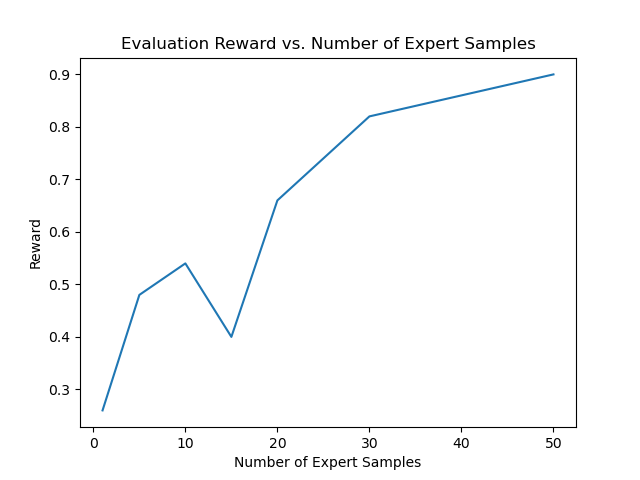
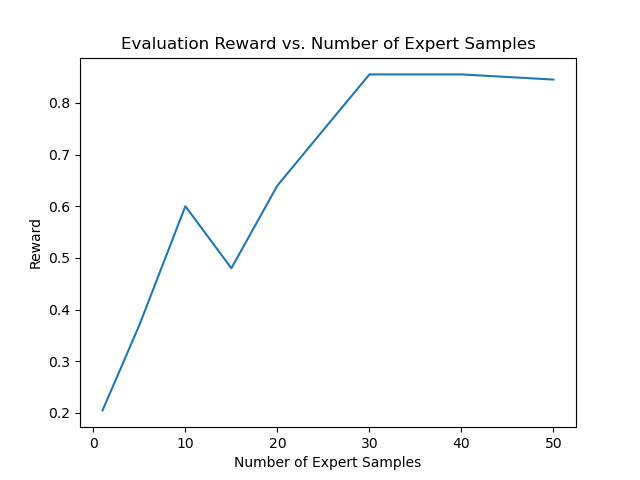
Fixed evaluation and AL

diff --git a/algos/active_bc.py b/algos/active_bc.py
@@ -54,7 +54,7 @@ def active_bc(env=None, budget=100, config=None):
     mazes = []
 
     env.set_goal(random_goal(env))
-    init_maze = env.grid_string.T
+    init_maze = np.copy(env.grid_string.T)
 
     mazes.append(init_maze)
 
@@ -113,7 +113,7 @@ def active_bc(env=None, budget=100, config=None):
             cur_maze = failed_configs[max_heuristic_idx]
         else:
             env.set_goal(random_goal(env))
-            cur_maze = env.grid_string.T
+            cur_maze = np.copy(env.grid_string.T)
 
         cur_traj = generateExpertTrajectory(
             env, r=config["base"]["randomize"], maze=cur_maze
@@ -134,7 +134,7 @@ def active_bc(env=None, budget=100, config=None):
             test_dataset=None,
             env=env,
             config=config,
-            net=net,
+            net=None,
             idx=(idx + 1),
         )
 
@@ -254,127 +254,25 @@ def BehaviorCloning(
             print("Loss is 0, stopping training")
             break
 
-        # Evaluation loop
-        with torch.no_grad():
-            if False:
-                if epoch % eval_freq == 0:
-                    logged_epochs.append(epoch)
-                    if test_dataset is None:
-                        print("No test dataset provided, skipping evaluation")
-                    else:
-                        epoch_test_lossses = []
-                        epoch_test_accs = []
-                        for state, action in test_loader:
-                            output = net(state)
-                            action = action.squeeze()
-                            loss = criterion(output, action)
-
-                            # If output isn't 2D, unsqueeze it
-                            if output.shape == (4,):
-                                output = output.unsqueeze(0)
-                                total = 1
-                            else:
-                                total = action.size(0)
-
-                            _, predicted = torch.max(output.data, 1)
-                            correct = (predicted == action).sum().item()
-                            acc = correct / total
-
-                            epoch_test_lossses.append(loss.item())
-                            epoch_test_accs.append(acc)
-
-                        test_losses.append(np.mean(epoch_test_lossses))
-                        test_accs.append(np.mean(epoch_test_accs))
-
-                    # Evaluate the policy
-                    if eval_freq is not None:
-                        batch_reward = []
-                        obs = env.reset()
-
-                        for i in range(num_eval_runs):
-                            reward_sum = 0
-                            while True:
-                                action = net(torch.tensor(obs).float()).argmax().item()
-                                obs, reward, term, trunc, info = env.step(int(action))
-                                env.render()
-                                reward_sum += reward
-                                if term or trunc:
-                                    break
-
-                            if r == "g":
-                                env.set_goal(random_goal(env))
-                                obs = env.reset()
-                            elif r == "m":
-                                obs = env.reset(
-                                    grid_string=generate_maze(env.board_size)
-                                )
-                            else:
-                                obs = env.reset()
-
-                            batch_reward.append(reward_sum)
-
-                        eval_reward.append(np.mean(batch_reward))
-
-    # Visualization
-    plt.figure()
-
-    # Label the whole figure
-    plt.suptitle(
-        f"{env.grid_string.shape[0]}x{env.grid_string.shape[0]} Grid, {train_dataset.__len__()} Expert Samples"
-    )
-    # Create three subplots for train/test loss, train/test accuracy, and evaluation reward
-    plt.subplot(3, 1, 1)
-    plt.plot(train_losses, "b-", label="Train Loss")
-    if test_dataset is not None:
-        plt.plot(logged_epochs, test_losses, "r-", label="Test Loss")
-    plt.xlabel("Epoch")
-    plt.ylabel("Loss")
-    plt.legend()
-    plt.subplot(3, 1, 2)
-    plt.plot(train_accs, "b-", label="Train Accuracy")
-    if test_dataset is not None:
-        plt.plot(logged_epochs, test_accs, "r-", label="Test Accuracy")
-    plt.xlabel("Epoch")
-    plt.ylabel("Accuracy")
-    plt.legend()
-    plt.subplot(3, 1, 3)
-    plt.plot(logged_epochs, eval_reward, "r-", label="Evaluation Reward")
-    plt.xlabel("Epoch")
-    plt.ylabel("Reward")
-    plt.legend()
-
     save_string = f"bc_{env.grid_string.shape[0]}x{env.grid_string.shape[0]}_r_{r}_samples_{train_dataset.__len__()}_batch_{batch_size}_epochs_{epochs}"
-
-    # Make save_string directory
-    if not os.path.exists(f"logs/bc/{save_string}"):
-        os.makedirs(f"logs/bc/{save_string}")
-
-    plt.savefig(f"logs/bc/{save_string}/" + save_string + f"_{idx}.png")
-
-    # Save the data as a numpy array
-    # np.savez(
-    #     f"logs/bc/{save_string}/" + save_string + f"_{idx}.npz",
-    #     train_losses=train_losses,
-    #     test_losses=test_losses,
-    #     train_accs=train_accs,
-    #     test_accs=test_accs,
-    #     eval_reward=eval_reward,
-    #     logged_epochs=logged_epochs,
-    # )
 
     failed_configs = []
 
     obs = env.reset()
 
     if r == "g":
-        env.set_goal(random_goal(env))
+        maze_bin = (env.grid_string == 1) + (env.grid_string == 2)
+        # All possible goals
+        goals = np.argwhere(maze_bin == 0)
+        goal_idx = 1
+        env.set_goal(goals[0])
         obs = env.reset()
     elif r == "m":
         obs = env.reset(grid_string=generate_maze(env.board_size))
     else:
         obs = env.reset()
 
-    for i in range(num_eval_runs):
+    for i in range(len(goals) - 1):
         reward_sum = 0
         while True:
             action = net(torch.tensor(obs).float()).argmax().item()
@@ -382,11 +280,12 @@ def BehaviorCloning(
             env.render()
             if term or trunc:
                 if reward == 0:
-                    failed_configs.append(env.grid_string)
+                    failed_configs.append(np.copy(env.grid_string.T))
                 break
 
         if r == "g":
-            env.set_goal(random_goal(env))
+            env.set_goal(goals[goal_idx])
+            goal_idx += 1
             obs = env.reset()
         elif r == "m":
             obs = env.reset(grid_string=generate_maze(env.board_size))
@@ -394,8 +293,6 @@ def BehaviorCloning(
             obs = env.reset()
 
     return idx, net, failed_configs
-
-    # plt.show()
 
 
 def generateExpertTrajectory(env, r="", maze=None):

diff --git a/compare.py b/compare.py
@@ -1,0 +1,44 @@
+import matplotlib.pyplot as plt
+
+# Read csv
+import numpy as np
+
+
+bc_name = "logs/eval/bc/bc_eval_diff_seed.csv"
+bc_al_name = "logs/eval/bc/bc_al_eval_diff_seed.csv"
+
+# Read the csv as a numpy array
+df_bc = np.genfromtxt(bc_name, delimiter=",")
+df_bc = df_bc[1:, :]
+df_bc = df_bc[~np.isnan(df_bc).any(axis=1)]
+x_bc = df_bc[:, 0].astype(int)
+y_bc = df_bc[:, 1]
+print(x_bc)
+print(y_bc)
+
+df_bc_al = np.genfromtxt(bc_al_name, delimiter=",")
+df_bc_al = df_bc_al[1:, :]
+df_bc_al = df_bc_al[~np.isnan(df_bc_al).any(axis=1)]
+x_bc_al = df_bc_al[:, 0].astype(int)
+y_bc_al = df_bc_al[:, 1]
+print(x_bc_al)
+print(y_bc_al)
+
+x_bc, y_bc = zip(*sorted(zip(x_bc, y_bc)))
+x_bc_al, y_bc_al = zip(*sorted(zip(x_bc_al, y_bc_al)))
+
+log_dir = "."
+
+# Plot the BC results in blue
+plt.plot(x_bc, y_bc, label="BC")
+# Plot the BC-AL results in red
+plt.plot(x_bc_al, y_bc_al, label="BC-AL")
+
+plt.legend()
+
+
+plt.title("Evaluation Reward vs. Number of Expert Samples")
+plt.xlabel("Number of Expert Samples")
+plt.ylabel("Reward")
+plt.savefig(f"{log_dir}/reward_fixed_diff_seed.png")
+plt.show()

diff --git a/evaluation.py b/evaluation.py
@@ -15,7 +15,7 @@ from maze_env import MutableMaze
 from helpers import Net
 
 
-def generate_evaluation_set(config, seed=282):
+def generate_evaluation_set(config, seed=184):
     # Set the seed
     np.random.seed(seed)
 
@@ -47,10 +47,10 @@ def generate_evaluation_set(config, seed=282):
             goal = random_goal(maze)
             maze[maze == 3] = 0
             maze[goal[0], goal[1]] = 3
-            data[i] = maze
+            data[i] = np.copy(maze)
     elif r == "m":
         for i in range(num_eval_samples):
-            data[i] = generate_maze(N)
+            data[i] = np.copy(generate_maze(N))
 
     return data
 

diff --git a/algos/maze_bc.py b/algos/maze_bc.py
@@ -1,0 +1,14 @@
+import torch
+import torch.nn as nn
+import torch.optim as optim
+import torch.nn.functional as F
+import numpy as np
+import gym
+from maze_env import MutableMaze
+import matplotlib.pyplot as plt
+from goal_setters import random_goal
+from mazes import *
+import os
+import yaml
+from helpers import Net
+from maze_env import Trajectory

diff --git a/README.md b/README.md
@@ -13,19 +13,21 @@ conda activate metairl
 2. Install dependencies
 
 ```
-pip install minigrid gym pygame matplotlib numpy
+pip install minigrid gym pygame matplotlib numpy torch
 ```
 
 ## Intructions for Use
 
 #### Running Experiments
 
-```maze_runner``` takes several arguments which specify the experiment:
+```maze_runner``` takes several arguments which specify the experiment. These can either be specified by a config file or in the command line. Flags include:
 
-* ```--control (-c)```: The method of control, from ['expert', 'manual', 'random', 'policy']
+* ```--control (-c)```: The method of control, from ['expert', 'manual', 'random', 'bc', 'bc-al']
 * ```--randomize (-r)```: The degree of randomization, from ['m', 'g', ''] for randomized maze, goal, and none.
-* ```---size (-s)```: If maze is randomized, the size of the generated maze.
-* ```---maze (-m)```: If goal or none are randomized, the default maze configuration.
+* ```--size (-s)```: If maze is randomized, the size of the generated maze.
+* ```--maze (-m)```: If goal or none are randomized, the default maze configuration.
+* ```--config (-y)```: The experiment configuration file, as a path to a yaml. Any additional arguments override yaml configs.
+* ```--num_expert_samples (-N)```: For IRL/IL experiments, the number of trajectories sampled from the expert. This parameter helps with scripting experiments.
 
 
 So, for example, to show the expert policy run on a random maze of size 20, we may run
